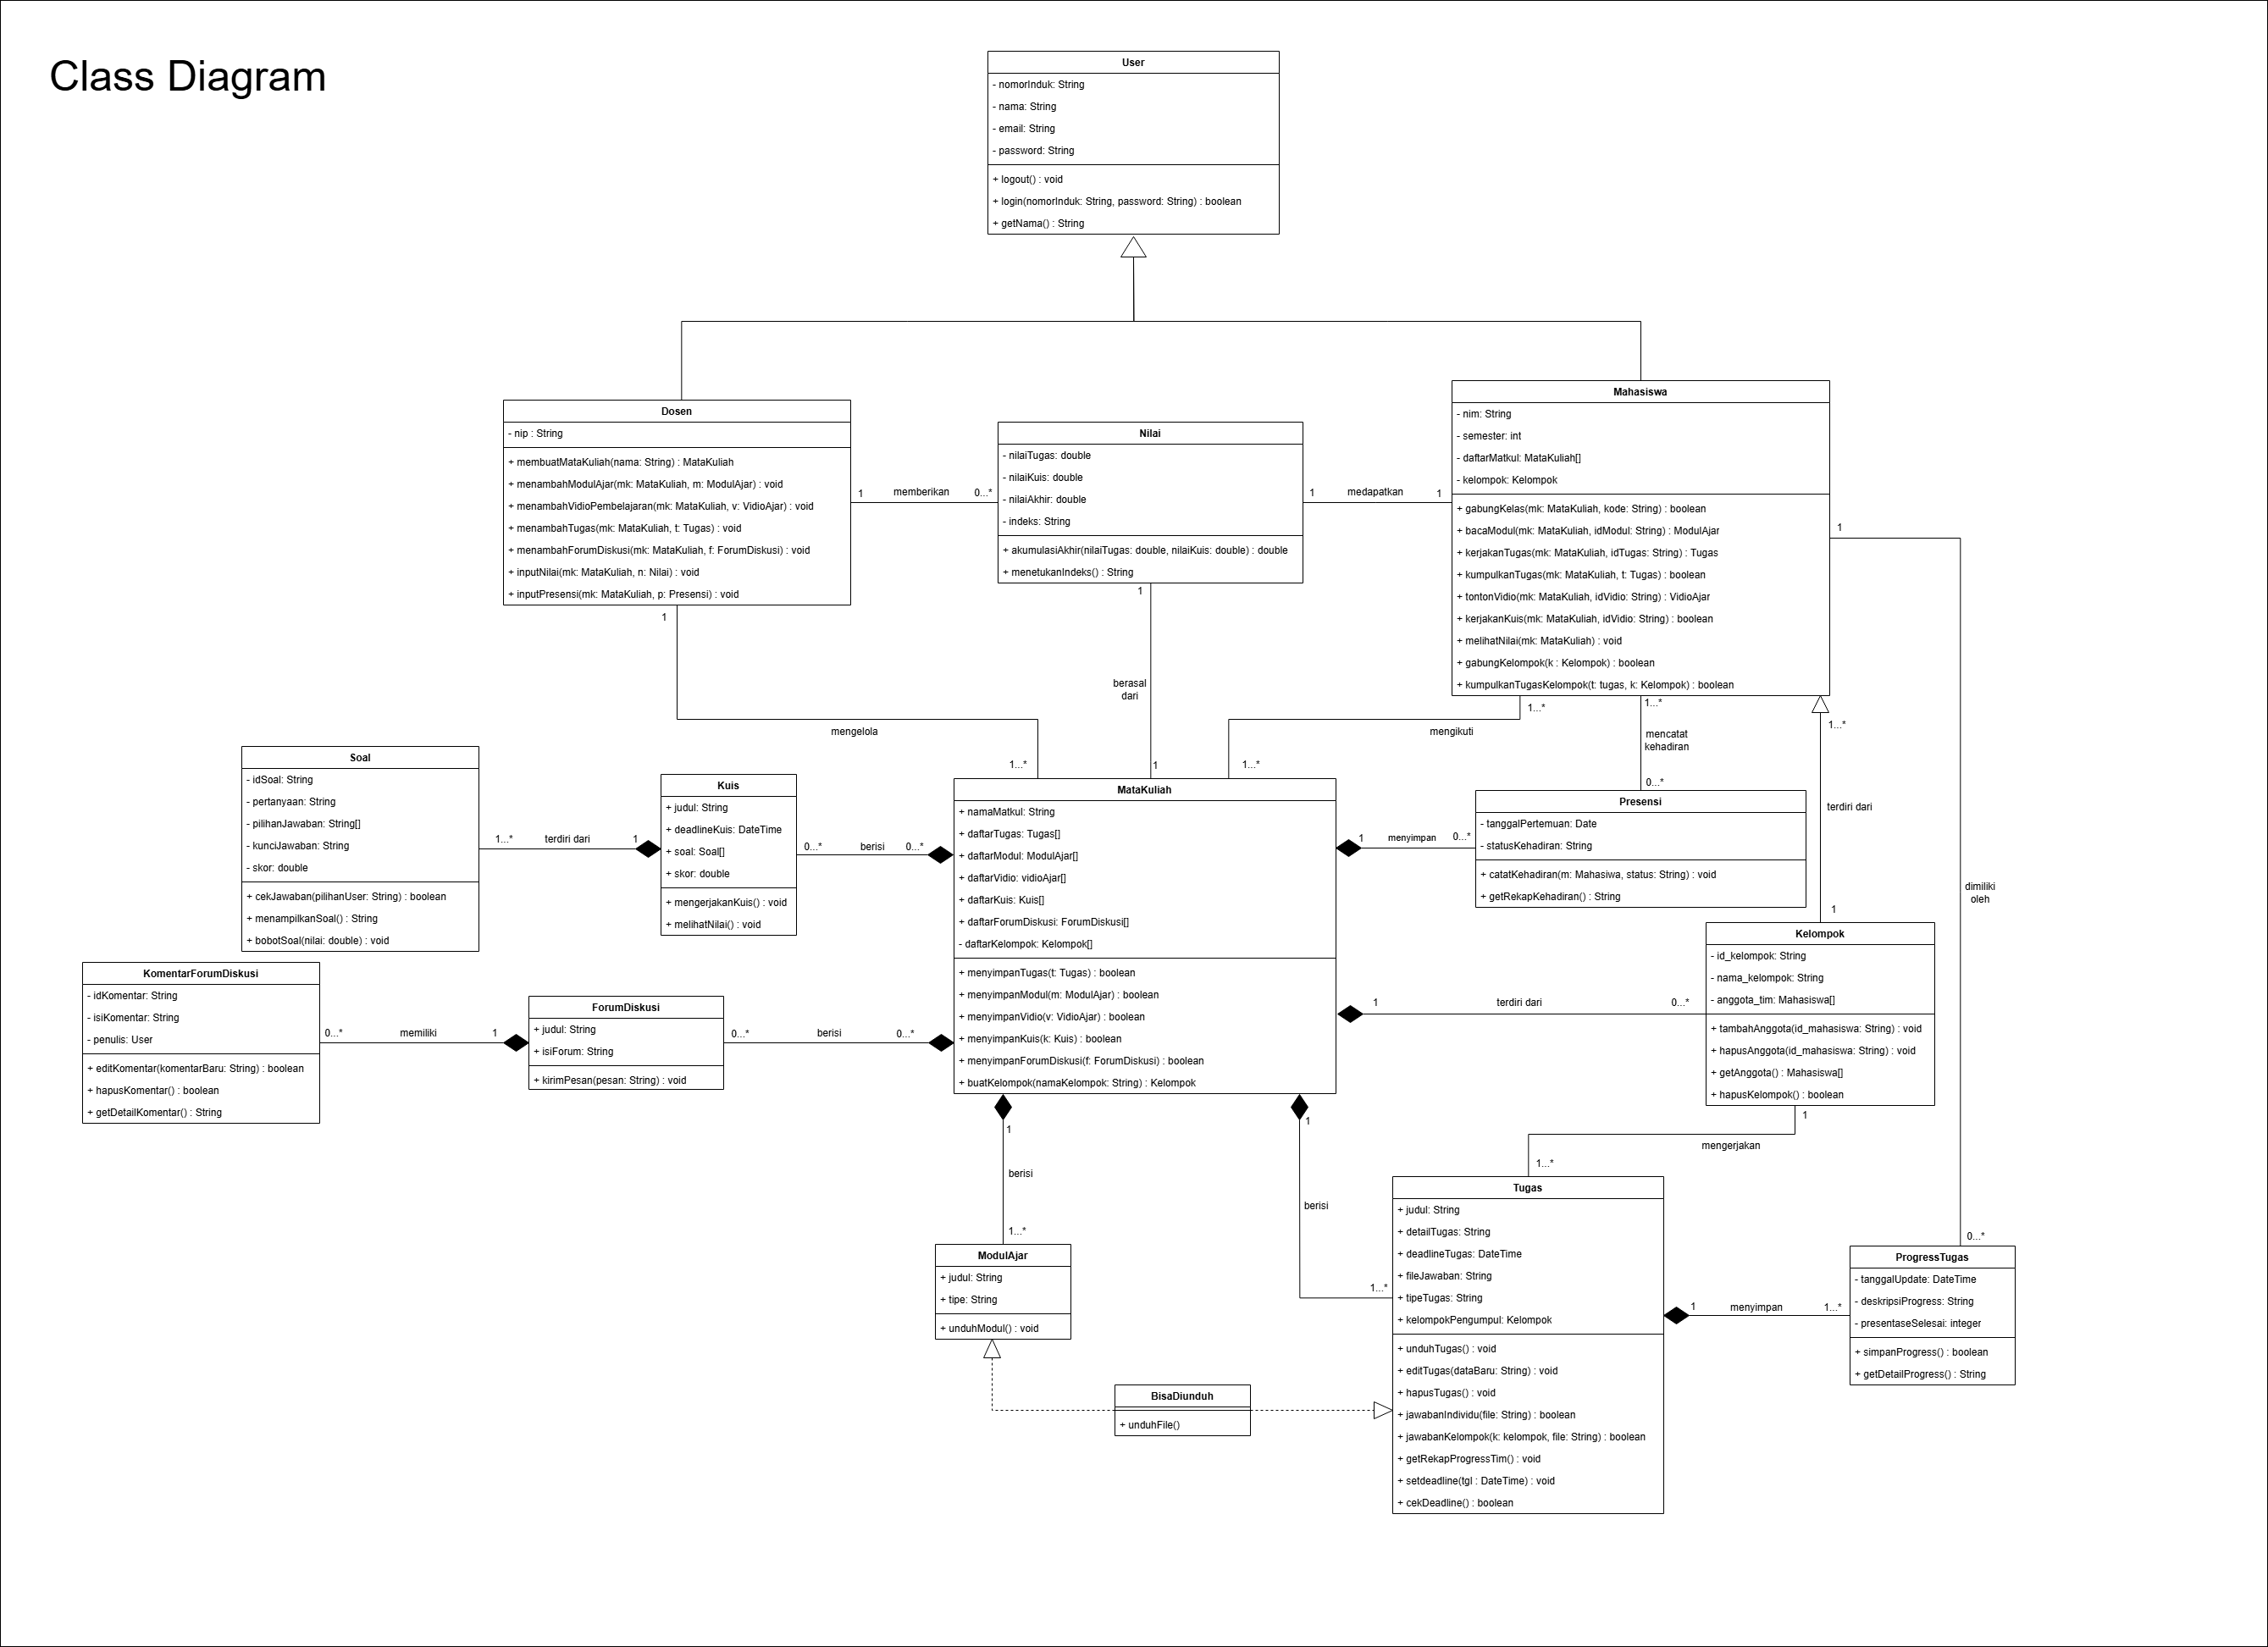
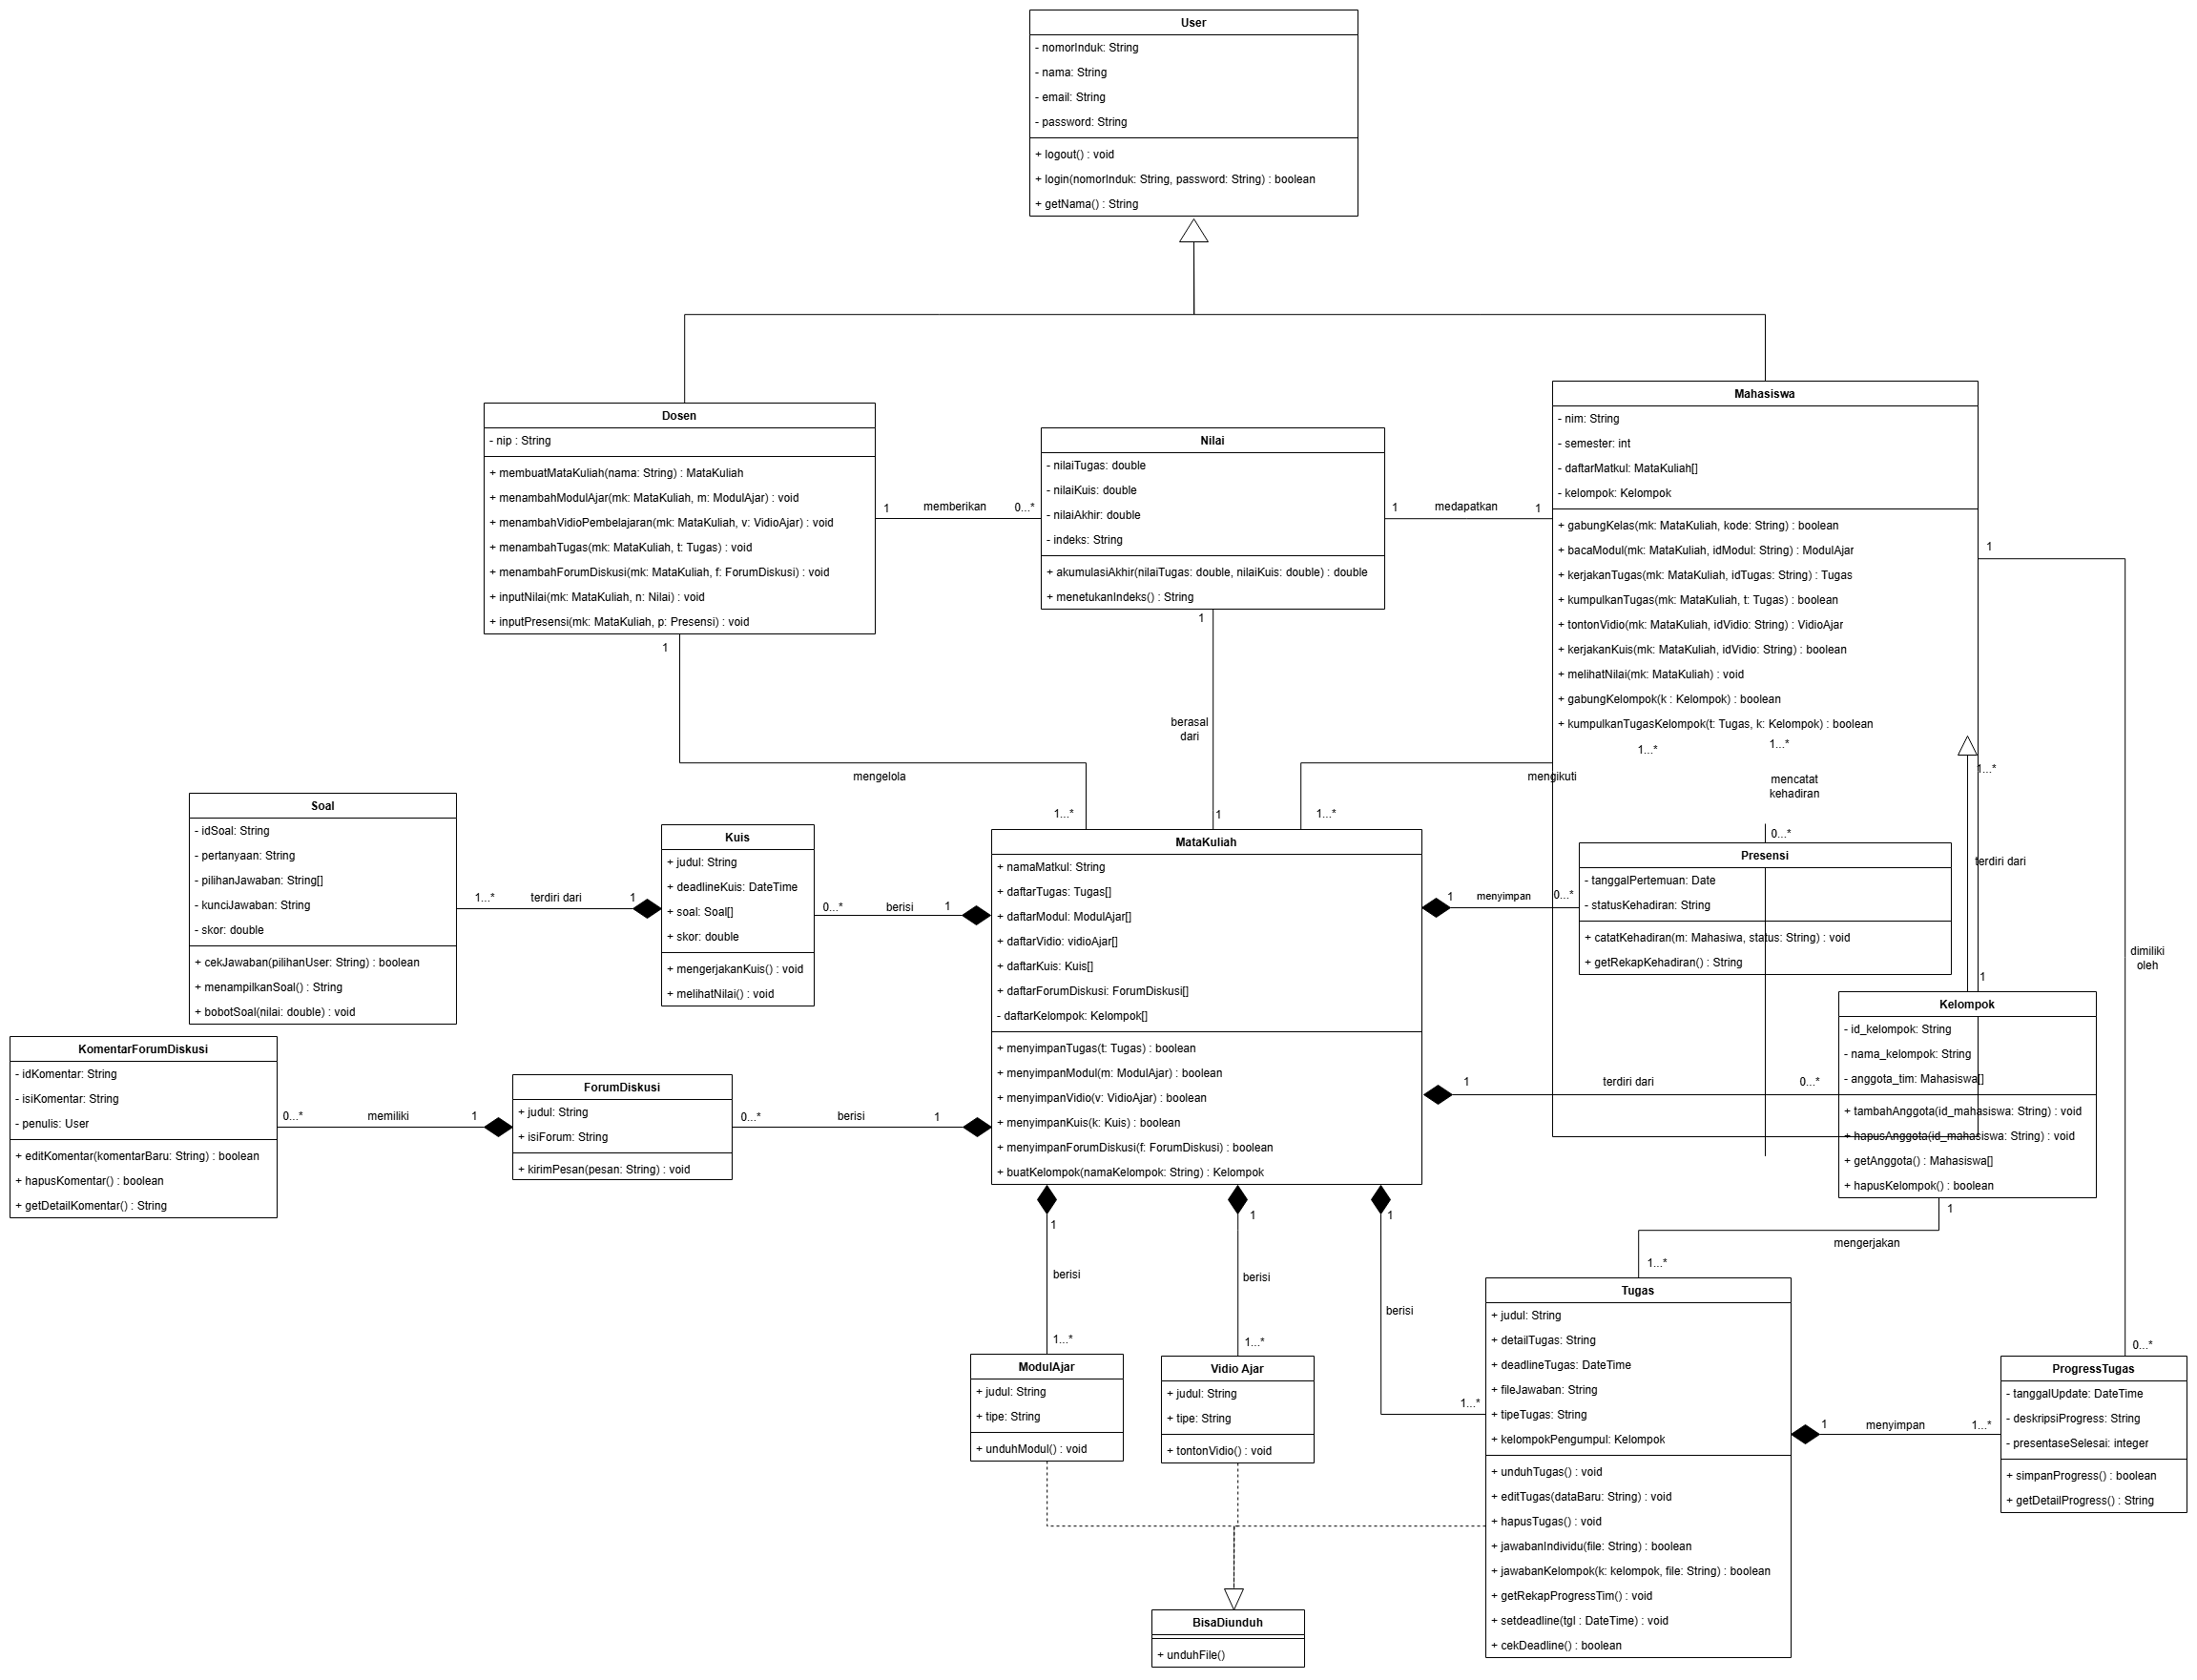
Fix faq dan tambahkan beberapa assets baru

diff --git a/frontend/src/pages/faq/faq.jsx b/frontend/src/pages/faq/faq.jsx
@@ -75,6 +75,27 @@ const FAQ_DATA = {
         ),
       },
       {
+        icon: "download",
+        question: "Bagaimana cara mengakses dan mengunduh materi perkuliahan?",
+        answer: (
+          <>
+            <ol>
+              <li>Masuk ke menu <strong>Mata Kuliah</strong> di sidebar.</li>
+              <li>Pilih mata kuliah yang ingin Anda pelajari.</li>
+              <li>Daftar materi akan tampil di panel sebelah kanan. Pilih materi yang diinginkan.</li>
+              <li>
+                Klik tombol aksi yang sesuai pada materi aktif:
+                <ul>
+                  <li><strong>Unduh Modul</strong> untuk menyimpan file PDF/Presentasi/Dokumen ke perangkat Anda.</li>
+                  <li><strong>Buka Link</strong> untuk membuka tautan materi eksternal di tab baru.</li>
+                  <li><strong>Putar Video</strong> untuk memutar video pembelajaran langsung di aplikasi.</li>
+                </ul>
+              </li>
+            </ol>
+          </>
+        ),
+      },
+      {
         icon: "qr_code_scanner",
         question: "Bagaimana cara melakukan presensi dengan QR Code?",
         answer: (
@@ -155,8 +176,9 @@ const FAQ_DATA = {
               <li>Masuk ke menu <strong>Materi</strong>.</li>
               <li>Pilih mata kuliah yang ingin ditambahkan materi.</li>
               <li>Klik tombol <strong>Tambah Materi</strong>.</li>
-              <li>Isi judul, deskripsi, dan unggah file (PDF, PPT, dll).</li>
-              <li>Klik <strong>Simpan</strong>.</li>
+              <li>Pilih <strong>Tipe Materi</strong> (PDF, Video, Link, Presentasi, Dokumen, atau Spreadsheet).</li>
+              <li>Isi judul materi, deskripsi (opsional), lalu unggah file materi Anda (untuk tipe dokumen/file) atau masukkan URL (untuk tipe Link/Video).</li>
+              <li>Klik <strong>Simpan</strong>. Seluruh materi bertipe dokumen otomatis dapat diunduh oleh mahasiswa.</li>
             </ol>
           </>
         ),

diff --git a/assets/DFD/LMS_Comprehensive_Implementation_And_Test_Plan_Manual.md b/assets/DFD/LMS_Comprehensive_Implementation_And_Test_Plan_Manual.md
@@ -192,10 +192,10 @@ Untuk mengukur keberhasilan tingkat kegunaan antarmuka aplikasi, metrik berikut 
 | **1.0** | `S1 - Kelola Tugas` | `GET /api/dosen/tugas`<br>`POST /api/dosen/tugas`<br>`PUT /api/dosen/tugas/:id`<br>`DELETE /api/dosen/tugas/:id`<br>`GET /api/kuis`<br>`POST /api/kuis`<br>`PUT /api/kuis/:id`<br>`DELETE /api/kuis/:id` | **Dosen** mengelola (membuat, mengubah, menghapus) penugasan reguler serta menyusun soal kuis online interaktif untuk kelas perkuliahan. |
 | **2.0** | `S2 - Kelola Anggota` | `POST /api/kelompok`<br>`POST /api/kelompok/:id/members`<br>`DELETE /api/kelompok/:id/members/:nim`<br>`DELETE /api/kelompok/:id` *(Hapus Kelompok)* | **Dosen** membuat kelompok belajar baru di kelas, menginput mahasiswa ke dalam kelompok, dan menghapus kelompok secara permanen (*cascade delete*). |
 | **3.0** | `S3 - Kelola Deadline` | `PUT /api/dosen/tugas/:id` *(Update deadline)*<br>`GET /api/tugas/:id` *(Validasi waktu)* | **Dosen** memperpanjang batas waktu pengerjaan tugas/kuis online, dan **Mahasiswa** memverifikasi tombol pengerjaan tugas yang kembali terbuka secara dinamis. |
-| **4.0** | `S4 - Monitoring Progress` | `POST /api/progress/materi`<br>`GET /api/progress/summary`<br>`GET /api/progress/dosen` | **Mahasiswa** membuka/mengunduh modul ajar materi kuliah. Sistem mencatat progress membaca, dan menampilkan diagram persentase progress belajar di dashboard. |
-| **5.0** | `S5 - Upload Tugas` | `POST /api/tugas/:id/submit` *(Upload Jawaban)*<br>`POST /api/kuis/:id/submit` *(Submit Kuis)* | **Mahasiswa** mengunggah file dokumen jawaban tugas (PDF/Word/Zip) atau menyelesaikan kuis online pilihan ganda langsung dari antarmuka halaman kuis. |
-| **6.0** | `S6 - Presensi` | `POST /api/presensi/buka-sesi` *(Generate QR)*<br>`POST /api/presensi/scan` *(Pindai QR)*<br>`PATCH /api/presensi/manual` *(Ubah Status)* | **Dosen** mengaktifkan sesi presensi (QR Code muncul), **Mahasiswa** memindai QR Code untuk absen otomatis, dan Dosen mengubah kehadiran manual jika sakit/izin. |
-| **7.0** | `S7 - Penilaian` | `POST /api/nilai/submissions/nilai`<br>`GET /api/nilai/transkrip/mahasiswa`<br>`GET /api/kuis/:id/hasil` *(🔒 Read-only)* | **Dosen** menginput nilai tugas mahasiswa, memantau rekap skor kuis otomatis (permanen), dan **Mahasiswa** mencetak/mengunduh transkrip nilai akademik PDF. |
+| **4.0** | `S4 - Monitoring Progress` | `GET /api/materi/mata-kuliah/:idMataKuliah`<br>`POST /api/materi/:idModulAjar/access`<br>`GET /api/materi/mata-kuliah/:idMataKuliah/progress`<br>`GET /api/modul-ajar`<br>`POST /api/modul-ajar`<br>`PUT /api/modul-ajar/:id`<br>`DELETE /api/modul-ajar/:id` | **Mahasiswa** membuka/mengunduh modul ajar materi kuliah. Sistem mencatat progress membaca, dan menampilkan diagram persentase progress belajar di dashboard. |
+| **5.0** | `S5 - Upload Tugas` | `POST /api/tugas/:idTugas/submit` *(Upload Jawaban)*<br>`POST /api/kuis/:idKuis/submit` *(Submit Kuis)* | **Mahasiswa** mengunggah file dokumen jawaban tugas (PDF/Word/Zip) atau menyelesaikan kuis online pilihan ganda langsung dari antarmuka halaman kuis. |
+| **6.0** | `S6 - Presensi` | `POST /api/dosen/presensi/matkul/:idMataKuliah/generate` *(Generate QR)*<br>`POST /api/presensi/scan` *(Pindai QR)*<br>`PUT /api/dosen/presensi/nim/:nim/matkul/:idMataKuliah/status` *(Ubah Status)* | **Dosen** mengaktifkan sesi presensi (QR Code muncul), **Mahasiswa** memindai QR Code untuk absen otomatis, dan Dosen mengubah kehadiran manual jika sakit/izin. |
+| **7.0** | `S7 - Penilaian` | `POST /api/nilai/submissions/nilai`<br>`GET /api/nilai/transkrip/mahasiswa`<br>`GET /api/kuis/:idKuis/hasil` *(🔒 Read-only)* | **Dosen** menginput nilai tugas mahasiswa, memantau rekap skor kuis otomatis (permanen), dan **Mahasiswa** mencetak/mengunduh transkrip nilai akademik PDF. |
 | **8.0** | `S8 - Diskusi` | `POST /api/forum/thread`<br>`POST /api/forum/comment`<br>`POST /api/forum/like` | **Dosen & Mahasiswa** membuat topik diskusi perkuliahan baru, menanggapi forum kelas dengan memberikan komentar, serta menyukai (*like*) topik bahasan. |
 | **9.0** | `S9 - Log-in dan Log-out` | `POST /api/auth/login`<br>`POST /api/auth/logout` | **Dosen & Mahasiswa** masuk ke platform LeMaS dengan memasukkan Nomor Induk dan password menggunakan otentikasi JWT token, dan menghapus token saat keluar. |
 